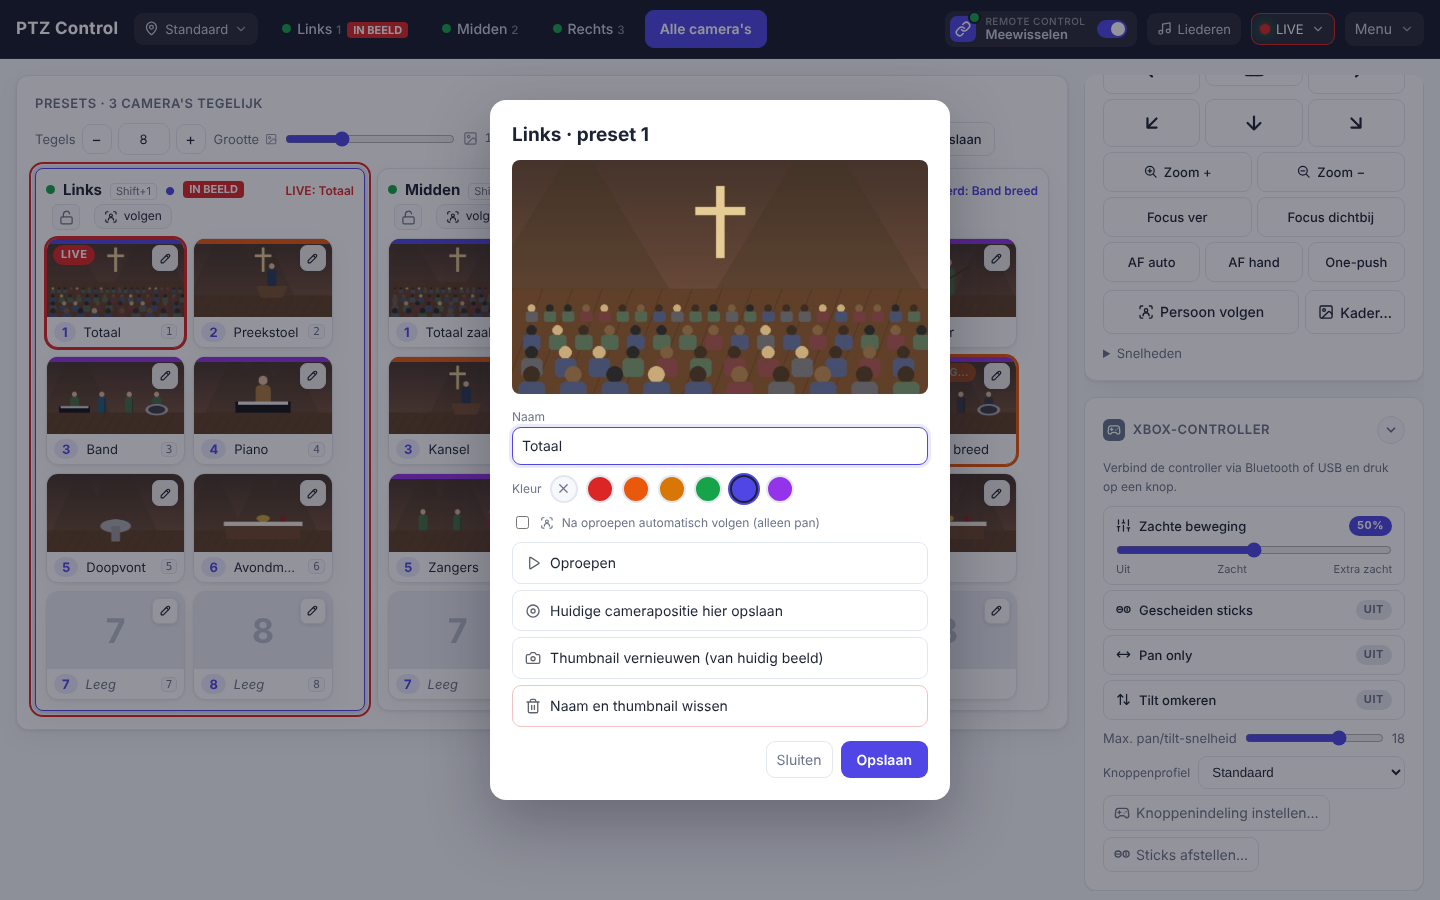
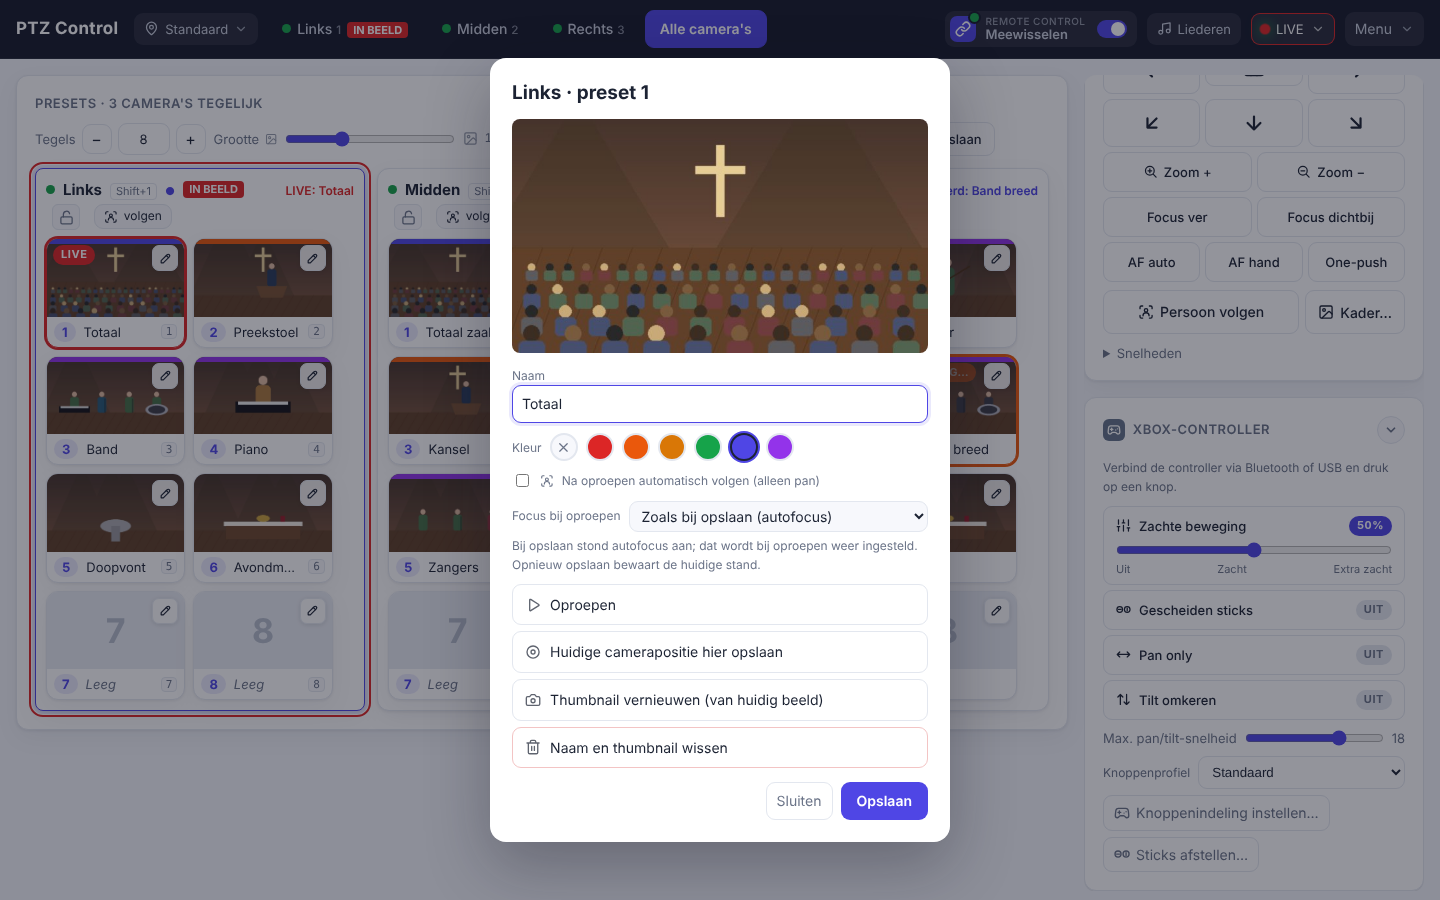
Focus per preset: autofocus bewaren en toepassen bij oproepen
Bij opslaan werd de focusmodus al uitgelezen (saved_positions.af/focus);
nu zet de server die bij het oproepen ook terug: autofocus aan na het
oproepen, of handmatig vóór het oproepen (en de bewaarde focusstand na
aankomst als die afwijkt). Per preset in te stellen in het presetvenster
(Focus bij oproepen: zoals bij opslaan / altijd autofocus / handmatig /
niet aanpassen). Lukt VISCA niet, dan gaat de preset gewoon door met een
melding. AF-knoppen tonen daarna de juiste stand.

Oefencamera onthoudt de AF-modus. Rondleiding, README, CLAUDE.md,
demodata en screenshot bijgewerkt.

Claude-Session: https://claude.ai/code/session_01UTh5KaErnH4QWkhz9Fr63p

Changed region(s): [[0.3438, 0.0622, 0.6562, 0.9333]]

diff --git a/index.html b/index.html
@@ -275,6 +275,10 @@
   .padprofrow select, .padprofcard select { padding: 5px 8px; border-radius: 6px; border: 1px solid var(--line); background: var(--panel2); color: var(--text); }
   .padprofcard { display: flex; gap: 8px; align-items: center; margin-top: 8px; }
   .padprofcard select { flex: 1; }
+  /* 🧑 focus per preset (presetvenster) */
+  .pfocus { display: flex; gap: 8px; align-items: center; margin-top: 10px; }
+  .pfocus select { flex: 1; padding: 5px 8px; border-radius: 9px; border: 1px solid var(--line); background: var(--panel2); color: var(--text); }
+  #pFocusInfo { margin-top: 4px; }
   #dlgMap .padset { display: flex; justify-content: space-between; align-items: center; flex-wrap: wrap; }
   #padMap .hit { outline: 2px solid var(--accent); outline-offset: 1px; border-radius: 4px; }
   .padbtns { display: flex; flex-wrap: wrap; gap: 6px; margin-top: 6px; }
@@ -1201,6 +1205,14 @@
   <div class="pcolors small" id="pColors">Kleur <button data-col="" title="Geen kleur"><svg class="ic" data-i="x" aria-hidden="true"><use href="#i-x"/></svg></button></div>
   <label class="small" style="display:flex;gap:8px;align-items:center;margin-top:10px">
     <input type="checkbox" id="pTrack"> <svg class="ic" data-i="track" aria-hidden="true"><use href="#i-track"/></svg> Na oproepen automatisch volgen (alleen pan)</label>
+  <label class="small pfocus" data-tipk="pFocus">Focus bij oproepen
+    <select id="pFocus">
+      <option value="" id="pFocusSaved">Zoals bij opslaan</option>
+      <option value="auto">Altijd autofocus</option>
+      <option value="manual">Handmatige focus (stand van de preset)</option>
+      <option value="off">Niet aanpassen</option>
+    </select></label>
+  <div class="small muted" id="pFocusInfo"></div>
   <div class="stackbtn">
     <button class="icon" id="pRecall"><svg class="ic" data-i="play" aria-hidden="true"><use href="#i-play"/></svg> Oproepen</button>
     <button class="icon" id="pStore"><svg class="ic" data-i="target" aria-hidden="true"><use href="#i-target"/></svg> Huidige camerapositie hier opslaan</button>
@@ -1953,7 +1965,9 @@ async function presetClick(camId, n, el) {
   if (hand.dir && hand.cam === camId) handHalt(false);   // preset kiezen: optrekken/afremmen direct stoppen (preset neemt het over)
   lastPreset[camId] = n; delete adjusted[camId];   // direct feedback; server bevestigt via event
   renderPresets(); renderSide();
-  await cmd("preset_call", { n }, camId);
+  const r = await cmd("preset_call", { n }, camId);
+  if (r?.af_error) toast(r.af_error);
+  else if (r && typeof r.af === "boolean" && camId === ctrlCam) setAF(r.af);   // 🧑 focus van de preset toegepast: AF-knoppen bijwerken
 }
 
 // na het vastzetten van een positie: melden of de thumbnail ook gelukt is
@@ -1979,6 +1993,7 @@ function openPreset(camId, n, focusName = false) {
   $("#pTitle").textContent = `${c.name} · preset ${n}`;
   $("#pName").value = c.presets[n] || "";
   $("#pTrack").checked = (c.track_presets || []).includes(n);
+  $("#pFocus").value = (c.preset_focus || {})[n] || ""; pFocusRender();
   editColor = (c.preset_colors || {})[n] || ""; renderPColors();
   $("#pTrack").disabled = !!cfg.tracking_error;
   updatePresetImg();
@@ -1990,6 +2005,25 @@ function updatePresetImg() {
   if (hasThumb(c, edit.n)) { el.style.backgroundImage = `url('${thumbUrl(edit.camId, edit.n)}')`; el.textContent = ""; }
   else { el.style.backgroundImage = ""; el.textContent = "Geen thumbnail"; }
 }
+/* 🧑 Focus bij oproepen: wat bij opslaan is uitgelezen (saved_positions[n].af / focus) en wat er bij oproepen gebeurt */
+function pFocusSaved(c, n) {
+  const sp = (c.saved_positions || {})[n];
+  if (!sp || !("af" in sp)) return null;
+  return sp.af ? "autofocus" : "handmatige focus" + ("focus" in sp ? ` (stand ${sp.focus})` : "");
+}
+function pFocusRender() {
+  if (!edit) return;
+  const c = camById(edit.camId), saved = pFocusSaved(c, edit.n), v = $("#pFocus").value;
+  $("#pFocusSaved").textContent = `Zoals bij opslaan (${saved || "onbekend"})`;
+  $("#pFocusInfo").textContent =
+    v === "auto" ? "Na het oproepen gaat autofocus aan."
+    : v === "manual" ? ("Autofocus gaat uit vóór het oproepen; de camera houdt de focus van de preset." +
+        ((c.saved_positions || {})[edit.n]?.focus !== undefined ? " Klopt die na aankomst niet, dan zet de app de bewaarde stand terug." : ""))
+    : v === "off" ? "De focusinstelling van de camera blijft zoals hij is."
+    : saved ? `Bij opslaan stond ${saved} aan; dat wordt bij oproepen weer ingesteld. Opnieuw opslaan bewaart de huidige stand.`
+    : "Nog onbekend (preset niet in deze app opgeslagen, of de camera geeft geen VISCA-antwoord): de focus wordt niet aangepast. Sla de preset opnieuw op om de huidige stand te bewaren.";
+}
+$("#pFocus").onchange = pFocusRender;
 $("#pCancel").onclick = () => $("#dlgPreset").close();
 $("#pSave").onclick = async () => {
   const c = camById(edit.camId), v = $("#pName").value.trim();
@@ -1999,6 +2033,8 @@ $("#pSave").onclick = async () => {
   const tp = new Set(c.track_presets || []);
   $("#pTrack").checked ? tp.add(edit.n) : tp.delete(edit.n);
   c.track_presets = [...tp].sort((a, b) => a - b);
+  c.preset_focus ||= {};
+  if ($("#pFocus").value) c.preset_focus[edit.n] = $("#pFocus").value; else delete c.preset_focus[edit.n];
   $("#dlgPreset").close(); await saveConfig();
 };
 $("#pName").addEventListener("keydown", (e) => { if (e.key === "Enter") $("#pSave").click(); });
@@ -4972,6 +5008,7 @@ const TIPS = {
   spFocus: { t: "Focussnelheid", d: "Hoe snel <i>Focus ver</i> en <i>Focus dichtbij</i> (en de toetsen) scherpstellen (1–7). Geldt voor dit scherm." },
   padSoft: { t: "Zachte beweging", d: "Hoe geleidelijk de camera optrekt en hoe fijn de stick rond het midden reageert. <i>Uit</i> = direct op snelheid; 50% ≈ 1 s naar topsnelheid; 100% (extra zacht) ≈ 2 s. Stoppen gaat altijd direct. Geldt voor dit scherm." },
   padSplit: { t: "Gescheiden sticks", d: "Linker stick alleen links/rechts (pan), rechter stick alleen omhoog/omlaag (tilt). Focus zit dan niet meer op de rechter stick. <i>Pan only</i> is uitgeschakeld zolang dit aan staat; <i>Tilt omkeren</i> werkt op de rechter stick. Geldt voor dit scherm." },
+  pFocus: { t: "Focus bij oproepen", d: "Wat er met de focus gebeurt als je deze preset oproept. <i>Zoals bij opslaan</i> (standaard): autofocus of handmatige focus zoals die stond toen de preset werd opgeslagen. <i>Altijd autofocus</i>, <i>Handmatige focus</i> (focus van de preset vasthouden) of <i>Niet aanpassen</i>. Geldt op alle schermen." },
   padPanOnly: { t: "Pan only", d: "De linker stick draait alleen links/rechts; omhoog/omlaag doet niets. Geldt voor alle camera's op dit scherm. Niet beschikbaar zolang <i>Gescheiden sticks</i> aan staat." },
   padInvY: { t: "Tilt omkeren", d: "Stick omhoog = camera omlaag (met <i>Gescheiden sticks</i>: de rechter stick). Niet beschikbaar zolang <i>Pan only</i> aan staat." },
   padMax: { t: "Max. pan/tilt-snelheid", d: "Snelheid als je de linker stick helemaal duwt (4–24). Geldt voor dit scherm." },
@@ -5026,7 +5063,7 @@ const TOUR_STEPS = [
       <p class="muted">Presets 90–99 zijn van de camera zelf (o.a. 95 = OSD-menu) en worden overgeslagen.</p>` },
   { target: ["#presetArea .tile .edit", "#presetArea"], title: "Preset bewerken", text: () => `<p>Het potlood (of rechtsklik op een tegel) opent het presetvenster:</p>
       <ul><li>naam en <b>kleur</b> geven (een gekleurde streep bovenop de tegel, bijv. per soort shot)</li><li>oproepen of de huidige positie hier opslaan</li><li>thumbnail vernieuwen</li>
-      <li>${ic("track")} <i>na oproepen automatisch volgen</i></li><li>naam en foto wissen</li></ul>` },
+      <li>${ic("track")} <i>na oproepen automatisch volgen</i></li><li><b>Focus bij oproepen</b>: standaard zet de app autofocus of handmatige focus terug zoals die stond toen je de preset opsloeg; of kies <i>altijd autofocus</i>, <i>handmatig</i> of <i>niet aanpassen</i></li><li>naam en foto wissen</li></ul>` },
   { target: ["#btnStore"], title: "Preset opslaan", text: () => `<p>Zet de camera goed, klik op <b>＋ Preset opslaan</b> en tik op de tegel waar de positie moet komen. Er wordt meteen een foto gemaakt voor de tegel.</p>
       <p>Met de Xbox-controller: <b>Menu</b>-knop vasthouden en een presetknop indrukken.</p>
       <p>Per ongeluk overschreven? Onderin verschijnt even <b>${ic("undo")} Ongedaan maken</b>: de camera gaat terug naar de oude positie en de preset en foto worden zoals ze waren.</p>` },

diff --git a/ptz_control.py b/ptz_control.py
@@ -474,10 +474,10 @@ def http_get(cam, path, binary=False):
         return (data, r.headers.get("Content-Type", "image/jpeg")) if binary else data.decode(errors="replace")
 
 
-def visca_send(cam, hexstr):
+def visca_send(cam, hexstr, timeout=None):
     payload = bytes.fromhex(hexstr.replace(" ", ""))
     port = int(cam.get("visca_port") or 5678)
-    with socket.create_connection((cam["host"].split(":")[0], port), timeout=TIMEOUT) as s:
+    with socket.create_connection((cam["host"].split(":")[0], port), timeout=timeout or TIMEOUT) as s:
         s.sendall(payload)
         s.settimeout(0.4)
         try:
@@ -795,6 +795,33 @@ def lock_error(cam):
                       "Bewegen met de controller kan wel (slot uit: slotje in de kolomkop).")
 
 
+# ---------------------------------------------------------------- focus per preset
+# 🧑 Autofocus bewaren en toepassen op een preset (18 nov 2026). Per preset cfg.cameras[i].preset_focus = {n: modus}:
+#   (ontbreekt) = zoals bij opslaan: saved_positions[n].af (uitgelezen bij preset_set, back-up of laden van de camera)
+#   "auto" = altijd autofocus · "manual" = handmatige focus (stand van de preset) · "off" = focus niet aanpassen
+# Altijd via VISCA (zoals de AF-knoppen). Lukt VISCA niet, dan gaat de preset gewoon door (info["af_error"]).
+PRESET_FOCUS_MODES = ("auto", "manual", "off")
+
+
+def preset_focus_plan(cam, n):
+    """(af, focus): af True = autofocus, False = handmatig, None = niets doen; focus = bewaarde stand (handmatig) of None."""
+    mode = str((cam.get("preset_focus") or {}).get(str(n)) or "")
+    saved = (cam.get("saved_positions") or {}).get(str(n)) or {}
+    if mode == "off":
+        return None, None
+    if mode == "auto":
+        return True, None
+    if mode == "manual":
+        return False, saved.get("focus") if "focus" in saved else None
+    if "af" not in saved:
+        return None, None                 # nooit uitgelezen (bv. HTTP-camera zonder VISCA): niets veranderen
+    return (True, None) if saved["af"] else (False, saved.get("focus"))
+
+
+def _focus_visca(cam, on):
+    visca_send(cam, "81 01 04 38 02 FF" if on else "81 01 04 38 03 FF", timeout=1.0)   # kort: de preset mag niet wachten
+
+
 def do_action(cam, action, args, info=None):
     """Voer een commando uit en houd alle schermen (en thumbnails) bij.
     Bij preset_set komt in info["thumb_error"] waarom de thumbnail niet lukte ("" = gelukt)."""
@@ -821,12 +848,28 @@ def do_action(cam, action, args, info=None):
                         tilt=max(1, round(clamp(args.get("tilt"), 1, 20) * sc)))
         if info is not None:
             info["speed_scale"] = None if sc is None else round(sc * 100)
+    af_plan = preset_focus_plan(cam, clamp(args.get("n"), 0, 254)) if action == "preset_call" else (None, None)
+    af_err = ""
+    if af_plan[0] is False:
+        try:                              # handmatig vóór het oproepen: de camera gaat dan niet zelf scherpstellen
+            _focus_visca(cam, False)
+        except Exception as e:  # noqa: BLE001
+            af_err = str(e)
     try:
         res = run_command(cam, action, args)
     except (urllib.error.URLError, OSError) as e:
         camstatus_set(cam["id"], False, str(e))
         raise
     camstatus_set(cam["id"], True)
+    if af_plan[0] is True:
+        try:
+            _focus_visca(cam, True)
+        except Exception as e:  # noqa: BLE001
+            af_err = str(e)
+    if action == "preset_call" and info is not None and af_plan[0] is not None:
+        info["af"] = None if af_err else af_plan[0]
+        if af_err:
+            info["af_error"] = f"Focus niet ingesteld (VISCA): {af_err}"
     if action in ("move", "zoom", "focus"):   # doorlopende beweging: bij afsluiten stoppen (shutdown)
         key = (cam["id"], "move" if action == "move" else action)
         if action == "move" or args.get("dir") != "stop":
@@ -847,7 +890,7 @@ def do_action(cam, action, args, info=None):
     if action == "preset_call":
         n = clamp(args.get("n"), 0, 254)
         broadcast({"type": "preset", "cam": cam["id"], "n": n})
-        moving_watch(cam, n)
+        moving_watch(cam, n, focus=af_plan[1] if af_plan[0] is False and not af_err else None)
         if n in (cam.get("track_presets") or []) and not tracking_error():
             follow_after_preset(cam)
     elif action == "preset_set":
@@ -873,7 +916,8 @@ def moving_cancel(cam_id):
         broadcast({"type": "moving", "cam": cam_id, "moving": False})
 
 
-def moving_watch(cam, n):
+def moving_watch(cam, n, focus=None):
+    """focus = bewaarde handmatige focusstand: na aankomst zetten als de camera hem niet zelf terugzette."""
     if JOB.get("running"):
         return                                  # back-up/test gebruikt VISCA al; niet storen
     token = object()
@@ -897,6 +941,11 @@ def moving_watch(cam, n):
                     key = (p["pan"], p["tilt"], p["zoom"], p.get("focus"))
                     if key == last and time.time() - start >= 0.8:
                         exact = True
+                        if focus is not None and p.get("focus") is not None and abs(p["focus"] - focus) > 2:
+                            try:          # 🧑 handmatige focus van de preset terugzetten
+                                _backup.visca_cmd(sock, f"81 01 04 48 {_backup.to_nib(int(focus), 4)} FF")
+                            except Exception:  # noqa: BLE001
+                                pass
                         break
                     last = key
         except Exception:  # noqa: BLE001  (geen VISCA: vaste tijd)

diff --git a/oefen.py b/oefen.py
@@ -49,6 +49,7 @@ class Cam:
         self.label = label                    # bijv. "OEFENEN" in het beeld
         self.pos = {"pan": 0, "tilt": 0, "zoom": 0, "focus": 1000}
         self.target = dict(self.pos)
+        self.af = True                        # focusmodus: True = autofocus (81 01 04 38 02), False = handmatig (03)
         self.presets = {}
         self.vel = (0, 0, 0)                  # pan/tilt/zoom per tik bij handbediening
         self.lock = threading.Lock()
@@ -280,6 +281,9 @@ def visca_server(cam, port=0):
             with cam.lock:
                 cam.target["zoom"] = unnib(m[4:8])
             return ack
+        if m[:4] == b"\x81\x01\x04\x38" and len(m) >= 5 and m[4] in (2, 3):   # autofocus aan/uit
+            cam.af = m[4] == 2
+            return ack
         if m[:4] == b"\x81\x01\x04\x48" and len(m) >= 8:          # focus direct
             with cam.lock:
                 cam.target["focus"] = unnib(m[4:8])
@@ -293,7 +297,7 @@ def visca_server(cam, port=0):
         if m == b"\x81\x09\x04\x48":
             return b"\x90\x50" + nib(p["focus"], 4) + b"\xff"
         if m == b"\x81\x09\x04\x38":
-            return b"\x90\x50\x02\xff"
+            return b"\x90\x50" + (b"\x02" if cam.af else b"\x03") + b"\xff"
         return ack
 
     def loop():

diff --git a/docs/tools/demo.py b/docs/tools/demo.py
@@ -68,6 +68,10 @@ for ci, (cid, name, ps) in enumerate(cams):
                            "preset_colors": {str(i + 1): c for i, (n, _) in enumerate(ps)
                                              for c in [("blauw" if "otaal" in n or "emeente" in n else "oranje" if n in ("Preekstoel", "Spreker close", "Kansel")
                                                         else "paars" if n in ("Band", "Piano", "Drums", "Gitaar", "Zang", "Zangers", "Band breed") else "")] if c}})
+    # 🧑 focus per preset: uitgelezen posities (autofocus; band = handmatige focus) voor het presetvenster
+    cfg["cameras"][-1]["saved_positions"] = {str(i + 1): {"pan": 100 * i, "tilt": 0, "pt_nibbles": [4, 4], "zoom": 0x800 * i,
+                                                          "af": k not in ("band", "drums"), "focus": 1200 + 50 * i, "_captured": "2026-11-15 10:00"}
+                                             for i, (_, k) in enumerate(ps)}
     for i, (_, k) in enumerate(ps):
         scene(k, ci * 10 + i).save(f"{out}/thumbs/{cid}_{i + 1}.jpg", quality=86)
 # 🎵 liederen: nep-ProPresenter (docs/tools/nep_propresenter.py, poort 50001) + nep-Voordienst app (nep_voordienst.py, poort 50020)

diff --git a/CLAUDE.md b/CLAUDE.md
@@ -81,6 +81,7 @@ Legenda: ✅ geverifieerd (getest of in officiële docs gevonden) · ⚠ aann
 - 🧑 **Kleurlabels**: `cfg.cameras[i].preset_colors = {n: rood|oranje|geel|groen|blauw|paars}`, gekozen in `#pColors` in het presetvenster; tegel krijgt `.cbar` met `var(--pc-<kleur>)` (in beide thema's gedefinieerd).
 - 🧑 **Zoeken + verslepen**: `#presetSearch` (naam, nummer of kleurnaam; Esc wist), `fillGrid()`. Volgorde `cfg.cameras[i].preset_order = [n…]` (alleen weergave; `orderedNums()` = eigen volgorde + rest op nummer). Verslepen met HTML5-drag (muis; niet op volledig scherm of in opslaan-modus), alleen binnen dezelfde camera. **↺ Volgorde** (`#btnOrderReset`, alleen zichtbaar als er een eigen volgorde is) wist `preset_order`. Sneltoetsen 1–9 blijven presetnummer 1–9.
 - 🧑 **Ongedaan maken na overschrijven**: `do_action(preset_set)` bewaart vooraf `saved_positions[n]` + thumbnail (`undo_snapshot`), daarna leest `remember_position` de nieuwe positie uit en schrijft die als `saved_positions[n]`. Is de oude positie bekend → `undo: true` in het antwoord; UI toont `#undoNote` (10 s) met **↶ Ongedaan maken** → `POST /api/preset/undo {cam, n}` (binnen `UNDO_TTL` = 60 s): volgen stoppen, `goto_position` + `wait_still`, `preset_set`, oude thumbnail terug (of weg), `saved_positions[n]` terug. Werkt vanuit tegel-opslaan, het presetvenster en de Xbox-controller (`storedToast(msg, r, camId, n)`). Zonder bekende oude positie (bv. HTTP-only camera zonder VISCA) geen knop.
+- 🧑 **Focus per preset / autofocus bewaren** (op verzoek, 18 nov 2026: "kan autofocus bewaren en toepassen op preset"): `cfg.cameras[i].preset_focus = {n: auto|manual|off}` (ontbreekt = *zoals bij opslaan*), gekozen in `#pFocus` (*Focus bij oproepen*) in het presetvenster, uitleg `#pFocusInfo` (`pFocusRender`), tooltip `TIPS.pFocus`. Bewaren gebeurde al: `remember_position` na `preset_set` (en back-up/laden) zet `saved_positions[n].af` + `focus`. Server `preset_focus_plan(cam, n)` → (af, focus): standaard uit `saved_positions[n]` (niets bekend → niets doen), `off` → niets. In `do_action(preset_call)`: handmatig → `81 01 04 38 03` **vóór** het oproepen (camera stelt niet zelf scherp en houdt de focus van de preset), auto → `81 01 04 38 02` **na** het oproepen; altijd VISCA via `visca_send(timeout=1.0)` (de preset wacht nooit lang); fout → preset gaat door, `af_error` in het antwoord (UI-toast). Handmatig met bekende focus → `moving_watch(cam, n, focus=…)` zet na aankomst `81 01 04 48 …` als de stand > 2 afwijkt (⚠ of PTZOptics de focus in de preset zelf bewaart is onbekend; dit vangt dat op). Antwoord `af` (true/false) → `presetClick` zet de AF-knoppen (`setAF`) als het de bediende camera is. `oefen.py` onthoudt nu de AF-modus (`cam.af`, inquiry `04 38` geeft 02/03). `demo.py` heeft `saved_positions` met `af` (band/drums handmatig) voor de screenshot. ✅ Getest (API, nep-camera): opslaan met AF uit/aan → `af` false/true bewaard; oproepen zet de modus terug; *altijd autofocus*, *niet aanpassen*; handmatig met afwijkende focus → 2000 teruggezet na aankomst; VISCA-poort dicht → preset ok + melding binnen 0,01 s. Playwright: keuze opslaan/terug/wissen in `cameras.json`. ⚠ Niet op echte PTZOptics-camera's: controleer of de AF-modus na een preset klopt en of handmatige focus niet verspringt.
 - 🧑 **Sneltoets op de tegel**: `.tkey` rechts in de meta-regel, alleen bij de bediende camera (`ctrlCam`) en n ≤ 9 (`keyOf("preset_"+n)`).
 - 🧑 **Wizard** (`#dlgWizard`): opent bij de start als `cfg.first_run` (server: geen camera's of alleen de voorbeeldcamera uit `DEFAULT_CONFIG`) en dit apparaat niet `wizardSkip` heeft; anders de rondleiding. Stap 1 camera's (naam, IP, protocol, **Testen** = `POST /api/camtest` → TCP HTTP/VISCA + `/snapshot.jpg`; **🔍 Zoeken in netwerk** = `POST /api/scan` → ⚠ eigen /24 op poort 5678 (VISCA van PTZOptics), 254 verbindingen tegelijk, 0,4 s), opslaan behoudt bestaande camera-ids/instellingen; stap 2 presets ophalen (opent `#dlgLoad`); stap 3 → rondleiding. Opnieuw via `#btnWizard` in 📷 Camera's.
 - ✅ Getest met `docs/tools/nep_camera.py` (HTTP-CGI + VISCA, beweegt geleidelijk) + een niet-bestaande camera: status groen/rood, onderweg aan → uit (exact), overschrijven → ongedaan maken (foto en positie terug, na 60 s geweigerd), test/scan in de wizard, wizard bij eerste start, kleur/zoeken/verslepen opgeslagen. `rondleiding_test.py` heeft 1 px speling gekregen (subpixel-afronding gaf valse meldingen).

diff --git a/README.md b/README.md
@@ -245,6 +245,12 @@ Gebruik:
 - Volgen kost alleen rekenkracht zolang het aan staat: de detector bekijkt hooguit **8 beelden per seconde** per camera (genoeg voor een lopende spreker; instelbaar per camera onder **Kader… → Afstelling**, of voor alle camera's met de omgevingsvariabele `PTZ_TRACK_FPS`). YOLO gebruikt de GPU van de Apple-chip, YOLOX in de losse app de processor.
 - Camera's per camera (knop **Extra** naast de camera klapt ze uit, samen met gebruiker/wachtwoord): **Volg-stream** (standaard `rtsp://IP:554/2`, de lichte substream), **max. volgsnelheid** en **pan omgekeerd** voor een ondersteboven gemonteerde camera.
 
+### Focus per preset (autofocus bewaren)
+
+Bij het opslaan van een preset onthoudt de app of **autofocus** of **handmatige focus** aan stond (en de focusstand). Roep je de preset later op, dan zet de app dat weer zo: stond autofocus aan, dan gaat autofocus aan; was de focus handmatig, dan gaat autofocus vóór het oproepen uit zodat de camera de focus van de preset houdt (en klopt die na aankomst niet, dan zet de app de bewaarde stand terug). Dat werkt ook via sneltoetsen en de Xbox-controller, en de knoppen *AF auto* / *AF hand* tonen daarna de juiste stand.
+
+In het presetvenster (✎) kies je per preset bij **Focus bij oproepen**: *Zoals bij opslaan* (standaard, met tussen haakjes wat er bewaard is), *Altijd autofocus*, *Handmatige focus* of *Niet aanpassen*. Presets die je nog niet in deze app hebt opgeslagen (of een camera zonder VISCA) houden hun focus zoals hij is; sla de preset opnieuw op om de huidige stand te bewaren. Focus gaat via VISCA (poort 5678), zoals de AF-knoppen; lukt dat niet, dan gaat de preset gewoon door en zie je een melding.
+
 ![Preset bewerken](docs/screenshots/preset-bewerken.png)
 
 ![Camera's instellen](docs/screenshots/cameras.png)
